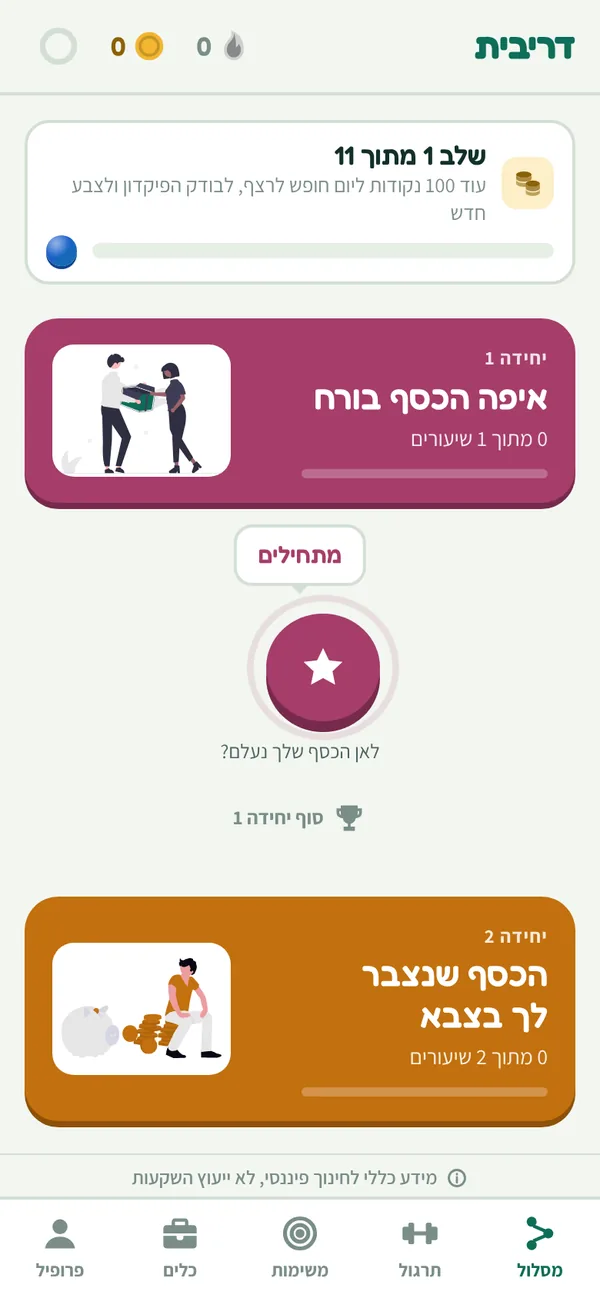
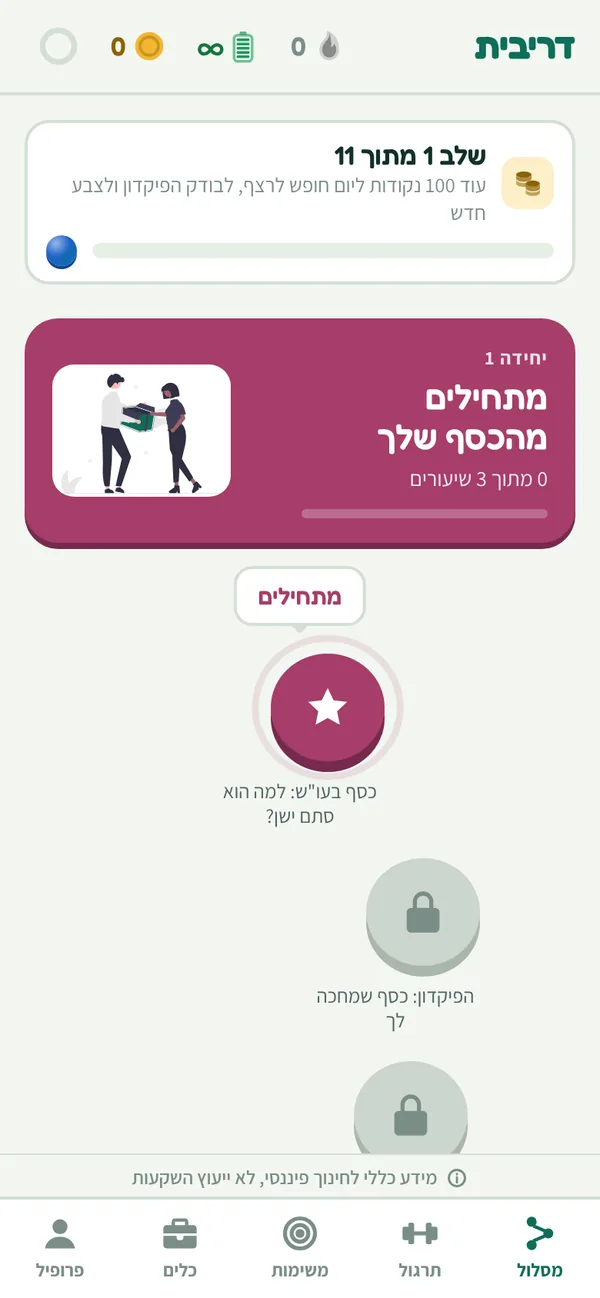
Landing screenshots from the current app (0.18.0: the עו"ש lesson first)
Claude-Session: https://claude.ai/code/session_01HgWiwxRCSUnzPqWeLEJeFN

diff --git a/landing/index.html b/landing/index.html
@@ -161,9 +161,9 @@ dialog .close { margin-top: 14px; width: 100%; height: 44px; border: 0; border-r
   </header>
 
   <div class="phones" aria-label="צילומי מסך מהאפליקציה">
-    <figure class="phone side r"><img src="media/shot-home.webp" alt="מסך הבית: מסלול השיעורים, יחידה 1 איפה הכסף בורח, יחידה 2 הכסף שנצבר לך בצבא" width="600" height="1298"></figure>
+    <figure class="phone side r"><img src="media/shot-home.webp" alt="מסך הבית: יחידה 1 מתחילים מהכסף שלך, השיעור הראשון כסף בעו״ש: למה הוא סתם ישן?" width="600" height="1298"></figure>
     <figure class="phone side l"><img src="media/shot-calc.webp" alt="מחשבון שחרור: לוחם, 32 חודשים, פיקדון כ-31,200 ₪ ומענק כ-21,600 ₪" width="600" height="1298"></figure>
-    <figure class="phone mid"><img src="media/shot-quiz.webp" alt="שאלה בשיעור: חשבון הבנק שלך במינוס, מה זה אומר? תשובה נכונה, פלוס 10 נקודות" width="600" height="1298"></figure>
+    <figure class="phone mid"><img src="media/shot-quiz.webp" alt="שאלה בשיעור: יש לך 35,000 ₪ בעו״ש, כמה הם מרוויחים לך בשנה? התשובה: כמעט 0 ₪" width="600" height="1298"></figure>
   </div>
 
   <section class="join" id="join" aria-labelledby="joinTitle">
